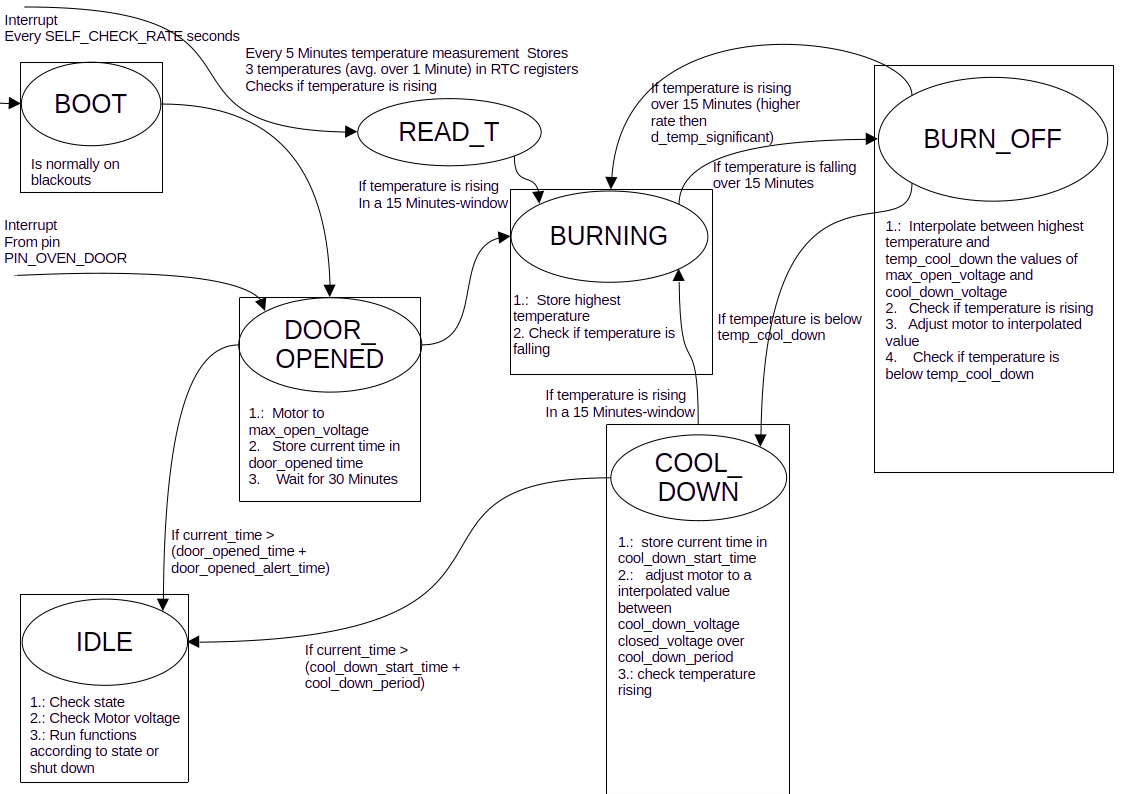
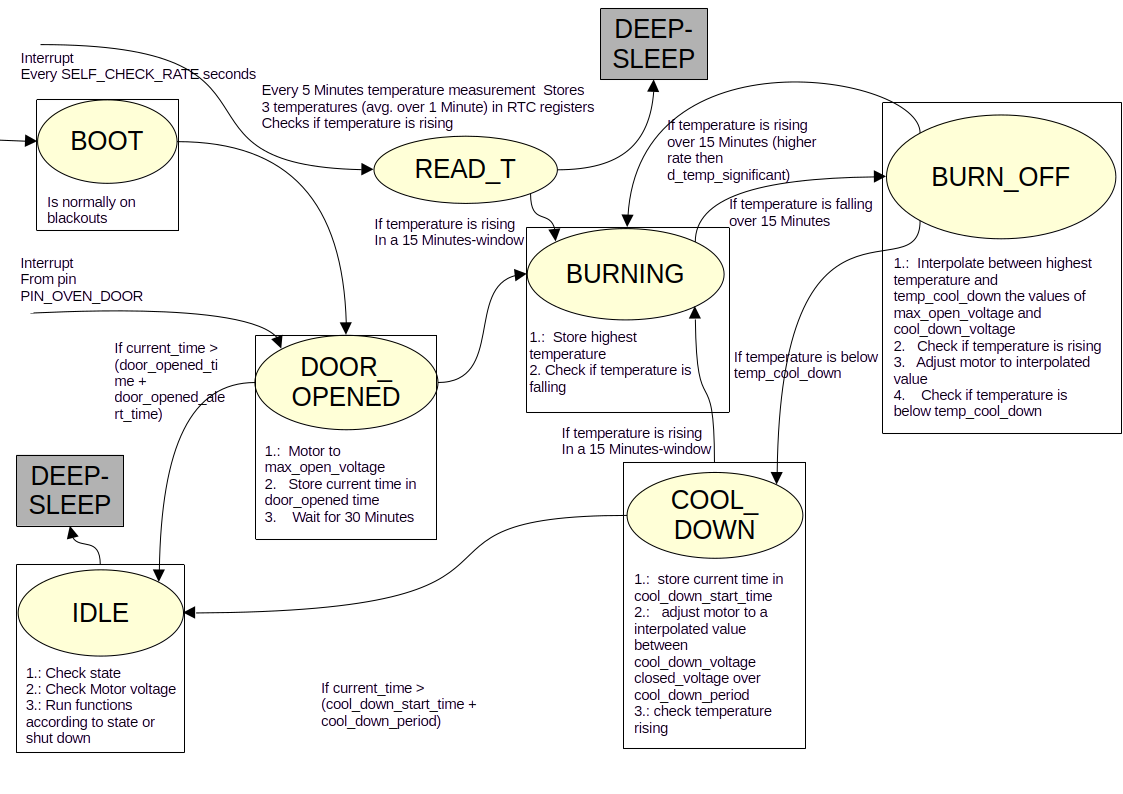
updated state chart and main

diff --git a/heizkostenminimalisator/src/wakeup_routines.cpp b/heizkostenminimalisator/src/wakeup_routines.cpp
@@ -25,7 +25,7 @@ void RTC_IRAM_ATTR esp_wake_deep_sleep(void){
     wakeup_reason = esp_sleep_get_wakeup_cause();
     switch(wakeup_reason){
     case ESP_SLEEP_WAKEUP_EXT0 : state_variables->state = INTR_OVEN_DOOR; break;
-    case ESP_SLEEP_WAKEUP_TIMER : state_variables->state = INTR_READ_T; &onTimer; break; // only when the timer wakes the ESP, we go into a ISR, otherwise the normal loop is started
+    case ESP_SLEEP_WAKEUP_TIMER : state_variables->state = STATE_READ_T; onTimer(); break; // only when the timer wakes the ESP, we go into a ISR, otherwise the normal loop is started
     case ESP_SLEEP_WAKEUP_UNDEFINED : state_variables->state = INTR_UNDEFINED; break;
     default : state_variables->state = INTR_UNDEFINED; break;
     }
@@ -49,33 +49,43 @@ void delayedSleepDisable(){
 }
 
 void IRAM_ATTR onTimer(){ // This is the function that gets called every TEMP_CHECK_PERIOD seconds it is not nice to put everything in the ISR but since we interrupt every 5 Minutes, this should do:)
-    append_intermediate_task(TASKS_READ_T);
+    state_variables->measure_temperature = true;
+    //append_intermediate_task(TASKS_READ_T);
 }
 
 void IRAM_ATTR sleepTimerISR(){  // This wrapper function gets called by the interrupt. Its only purpose is to let put the ESP32 into sleep mode add here any necessary pre-sleep function-calls
     esp_deep_sleep_start();
 }
 
-void append_intermediate_task(uint8_t intermediate_task){
-    for (uint8_t i = 0; i<sizeof(state_variables->intermediate_tasks);i++){
-        if(state_variables->intermediate_tasks[i] == -1){
+/*
+void append_intermediate_task(uint8_t intermediate_task)
+{
+    for (uint8_t i = 0; i < sizeof(state_variables->intermediate_tasks); i++)
+    {
+        if (state_variables->intermediate_tasks[i] == -1)
+        {
             state_variables->intermediate_tasks[i] == intermediate_task;
         }
     }
 }
 
-void delete_intermediate_task(uint8_t id){
+void delete_intermediate_task(uint8_t id)
+{
     state_variables->intermediate_tasks[id] = -1;
-    for (uint8_t i = id; i<sizeof(state_variables->intermediate_tasks)-1;i++){
-        state_variables->intermediate_tasks[i] = state_variables->intermediate_tasks[i+1];
+    for (uint8_t i = id; i < sizeof(state_variables->intermediate_tasks) - 1; i++)
+    {
+        state_variables->intermediate_tasks[i] = state_variables->intermediate_tasks[i + 1];
     }
 }
 
-bool intermediate_task_available(uint8_t intermediate_task){
-    for (uint8_t i = 0; i<sizeof(state_variables->intermediate_tasks);i++){
-        if(state_variables->intermediate_tasks[i] != -1){
+bool intermediate_task_available(uint8_t intermediate_task)
+{
+    for (uint8_t i = 0; i < sizeof(state_variables->intermediate_tasks); i++)
+    {
+        if (state_variables->intermediate_tasks[i] != -1)
+        {
             return
         }
-        state_variables[i] = state_variables[i+1];
+        state_variables[i] = state_variables[i + 1];
     }
-}
+}*/

diff --git a/heizkostenminimalisator/include/wakeup_routines.h b/heizkostenminimalisator/include/wakeup_routines.h
@@ -9,7 +9,6 @@
 #define NUM_TEMP_MEASUREMENTS 5
 #define BTN_STOP_ALARM    0
 
-#define TASKS_READ_T 1U
 
 
 
@@ -21,7 +20,7 @@ typedef struct StateVariables{ //this has to be declared as RTC_DATA_ATTR!!
     //portMUX_TYPE state_mux;
     //uint32_t isr_counter;
     unsigned char state = STATE_NORMAL_BOOT; // state_variable
-    uint8_t intermediate_tasks[4] = {-1,-1,-1,-1}; // this indicates a task (e.g. read temp), that has to be done, regardless of the cur state
+    bool measure_temperature = true; // this indicates a task (read temp), has to be done, regardless of the cur state
     bool setup;
     double temperature_measurements[NUM_TEMP_MEASUREMENTS] = {0,0,0,0,0}; // This array gets updated every five minutes with the measured temperature
 } StateVariables;
@@ -36,5 +35,5 @@ void setupWakeUpRoutines(StateVariables *state_vars);
 void sleepysloopy();
 void delayedSleepEnable(int32_t delay_sec); // sets up a timer, which when triggered sets the ESP to deepsleep
 void delayedSleepDisable(); // disables the sleep timer
-void append_intermediate_task(uint8_t intermediate_task);
+//void append_intermediate_task(uint8_t intermediate_task);
 #endif

diff --git a/heizkostenminimalisator/src/main.cpp b/heizkostenminimalisator/src/main.cpp
@@ -7,6 +7,7 @@
 
 RTC_DATA_ATTR StateVariables state_variables;
 RTC_DATA_ATTR double measured_temperature[NUM_TEMP_MEASUREMENTS] = {0,0,0,0,0}; // In this array the last 5 measured temperatures are stored!. [0] is the latest, [5] is the oldest
+Thermocouple thermocouple;
 Motor motor;
 unsigned int door_opened_time;
 
@@ -22,6 +23,7 @@ void setup() {
   #endif
   setup_pins();
   motor = Motor();
+  thermocouple = Thermocouple()
 }
 
 void loop() {
@@ -38,9 +40,20 @@ void loop() {
     break;
   case STATE_IDLE:
     break; // do nothing but to check constantly
-    
+  case STATE_READ_T:
+    if(state_variables.state == STATE_READ_T){
+      esp_deep_sleep_start();
+
+    }
+    break;
   default:
     break;
+  }
+
+  if(state_variables.measure_temperature){
+    state_variables.measure_temperature = false;
+    thermocouple.add_temperature_measurement(&state_variables);
+    
   }
   #ifdef DEBUG
   Serial.println("now in loop");
